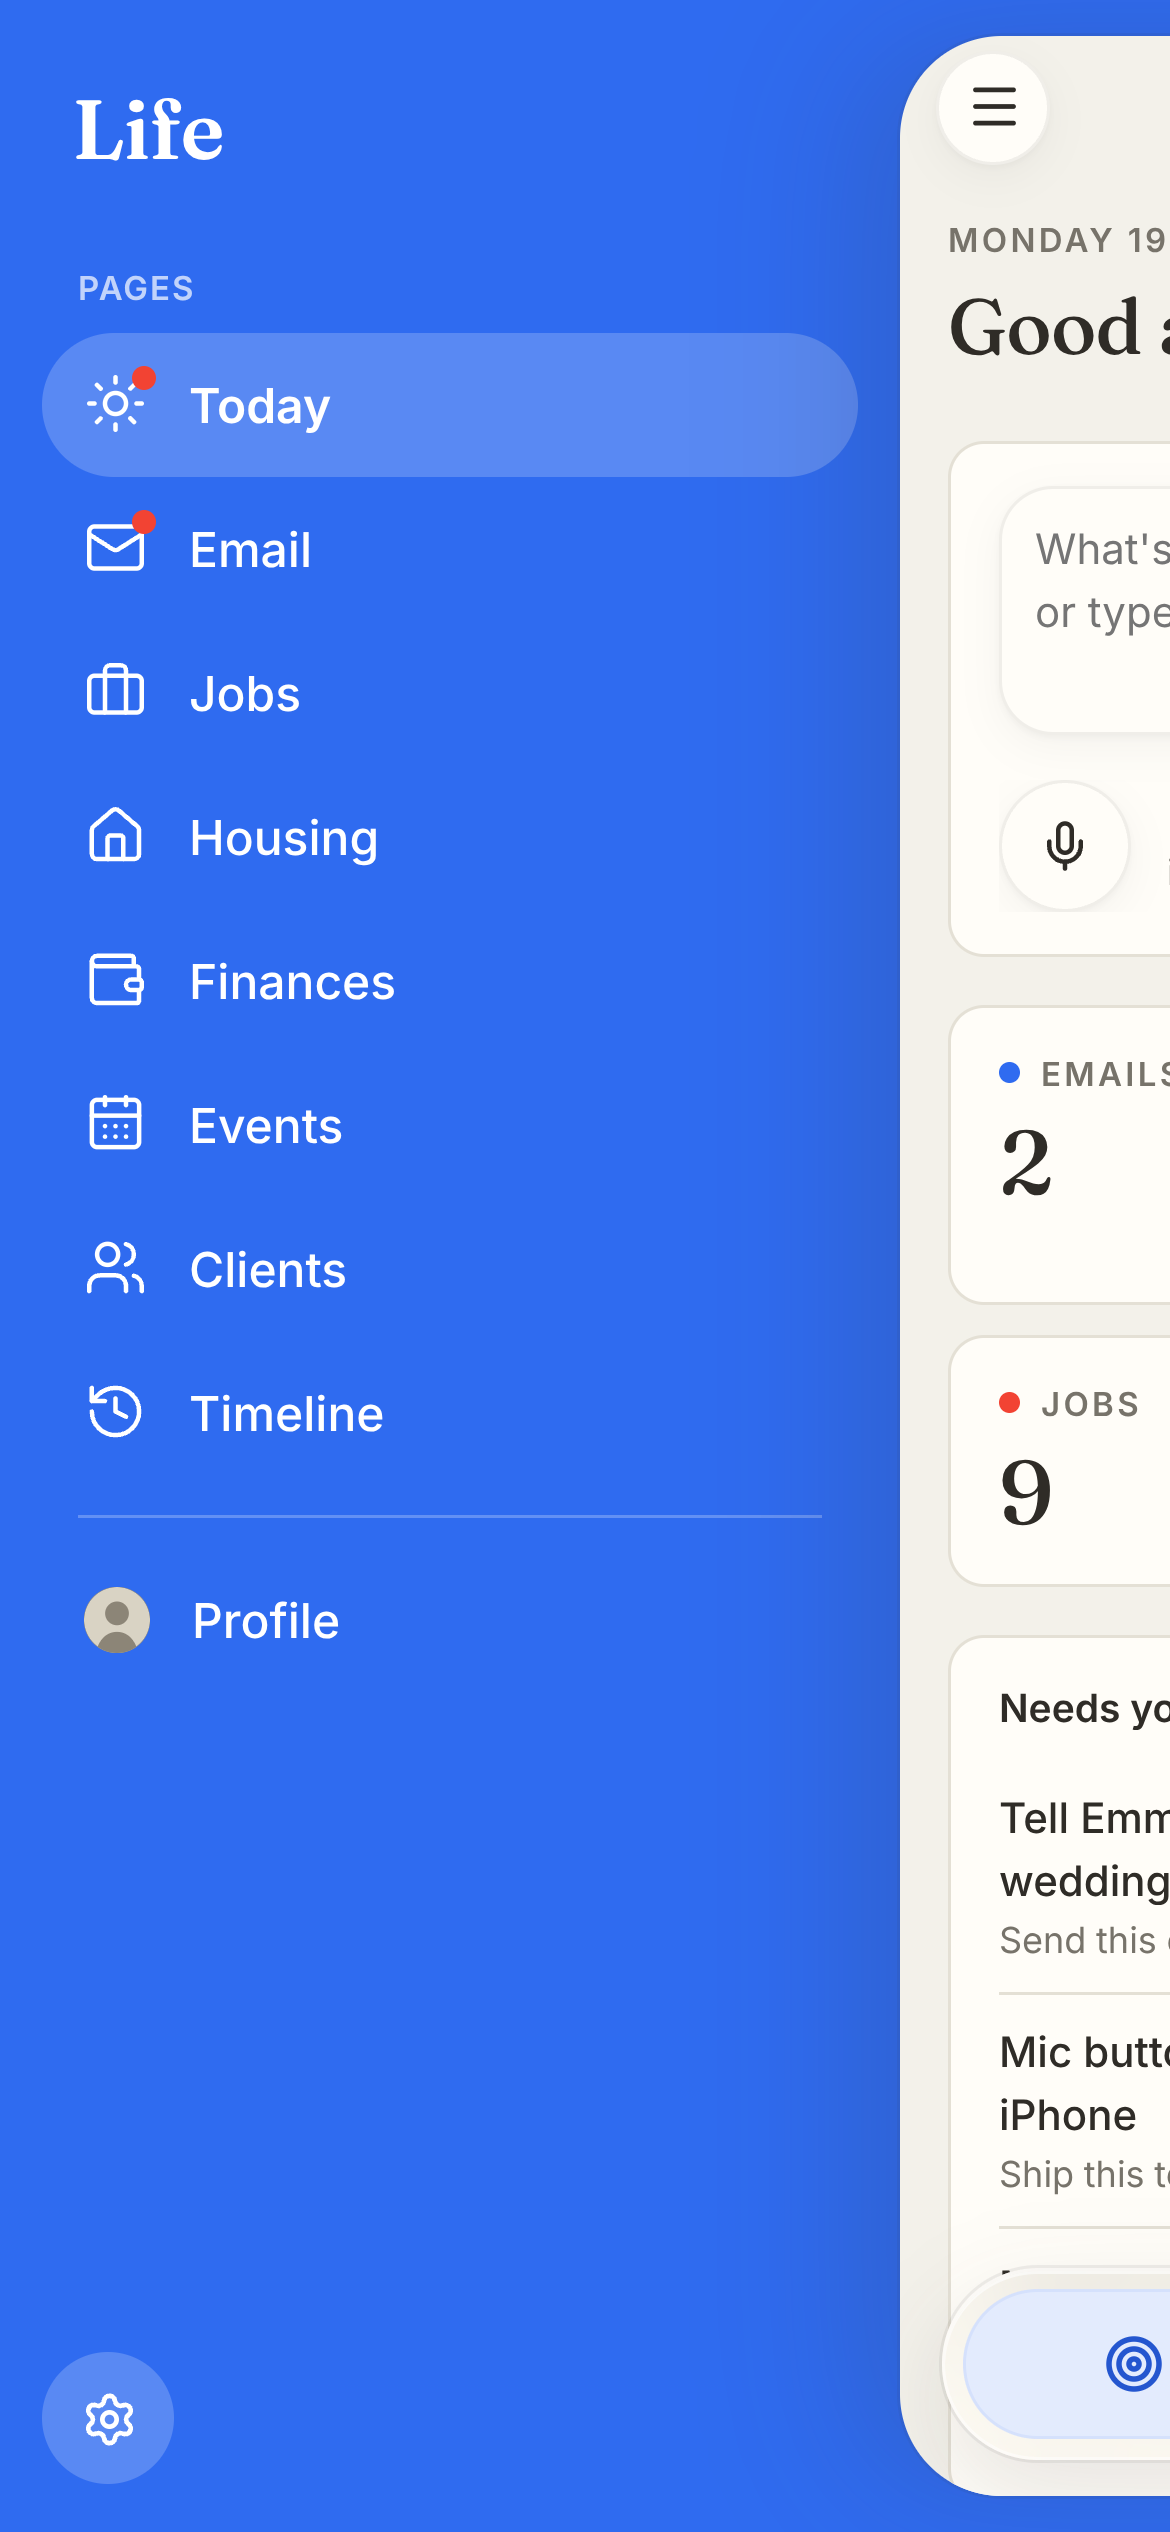
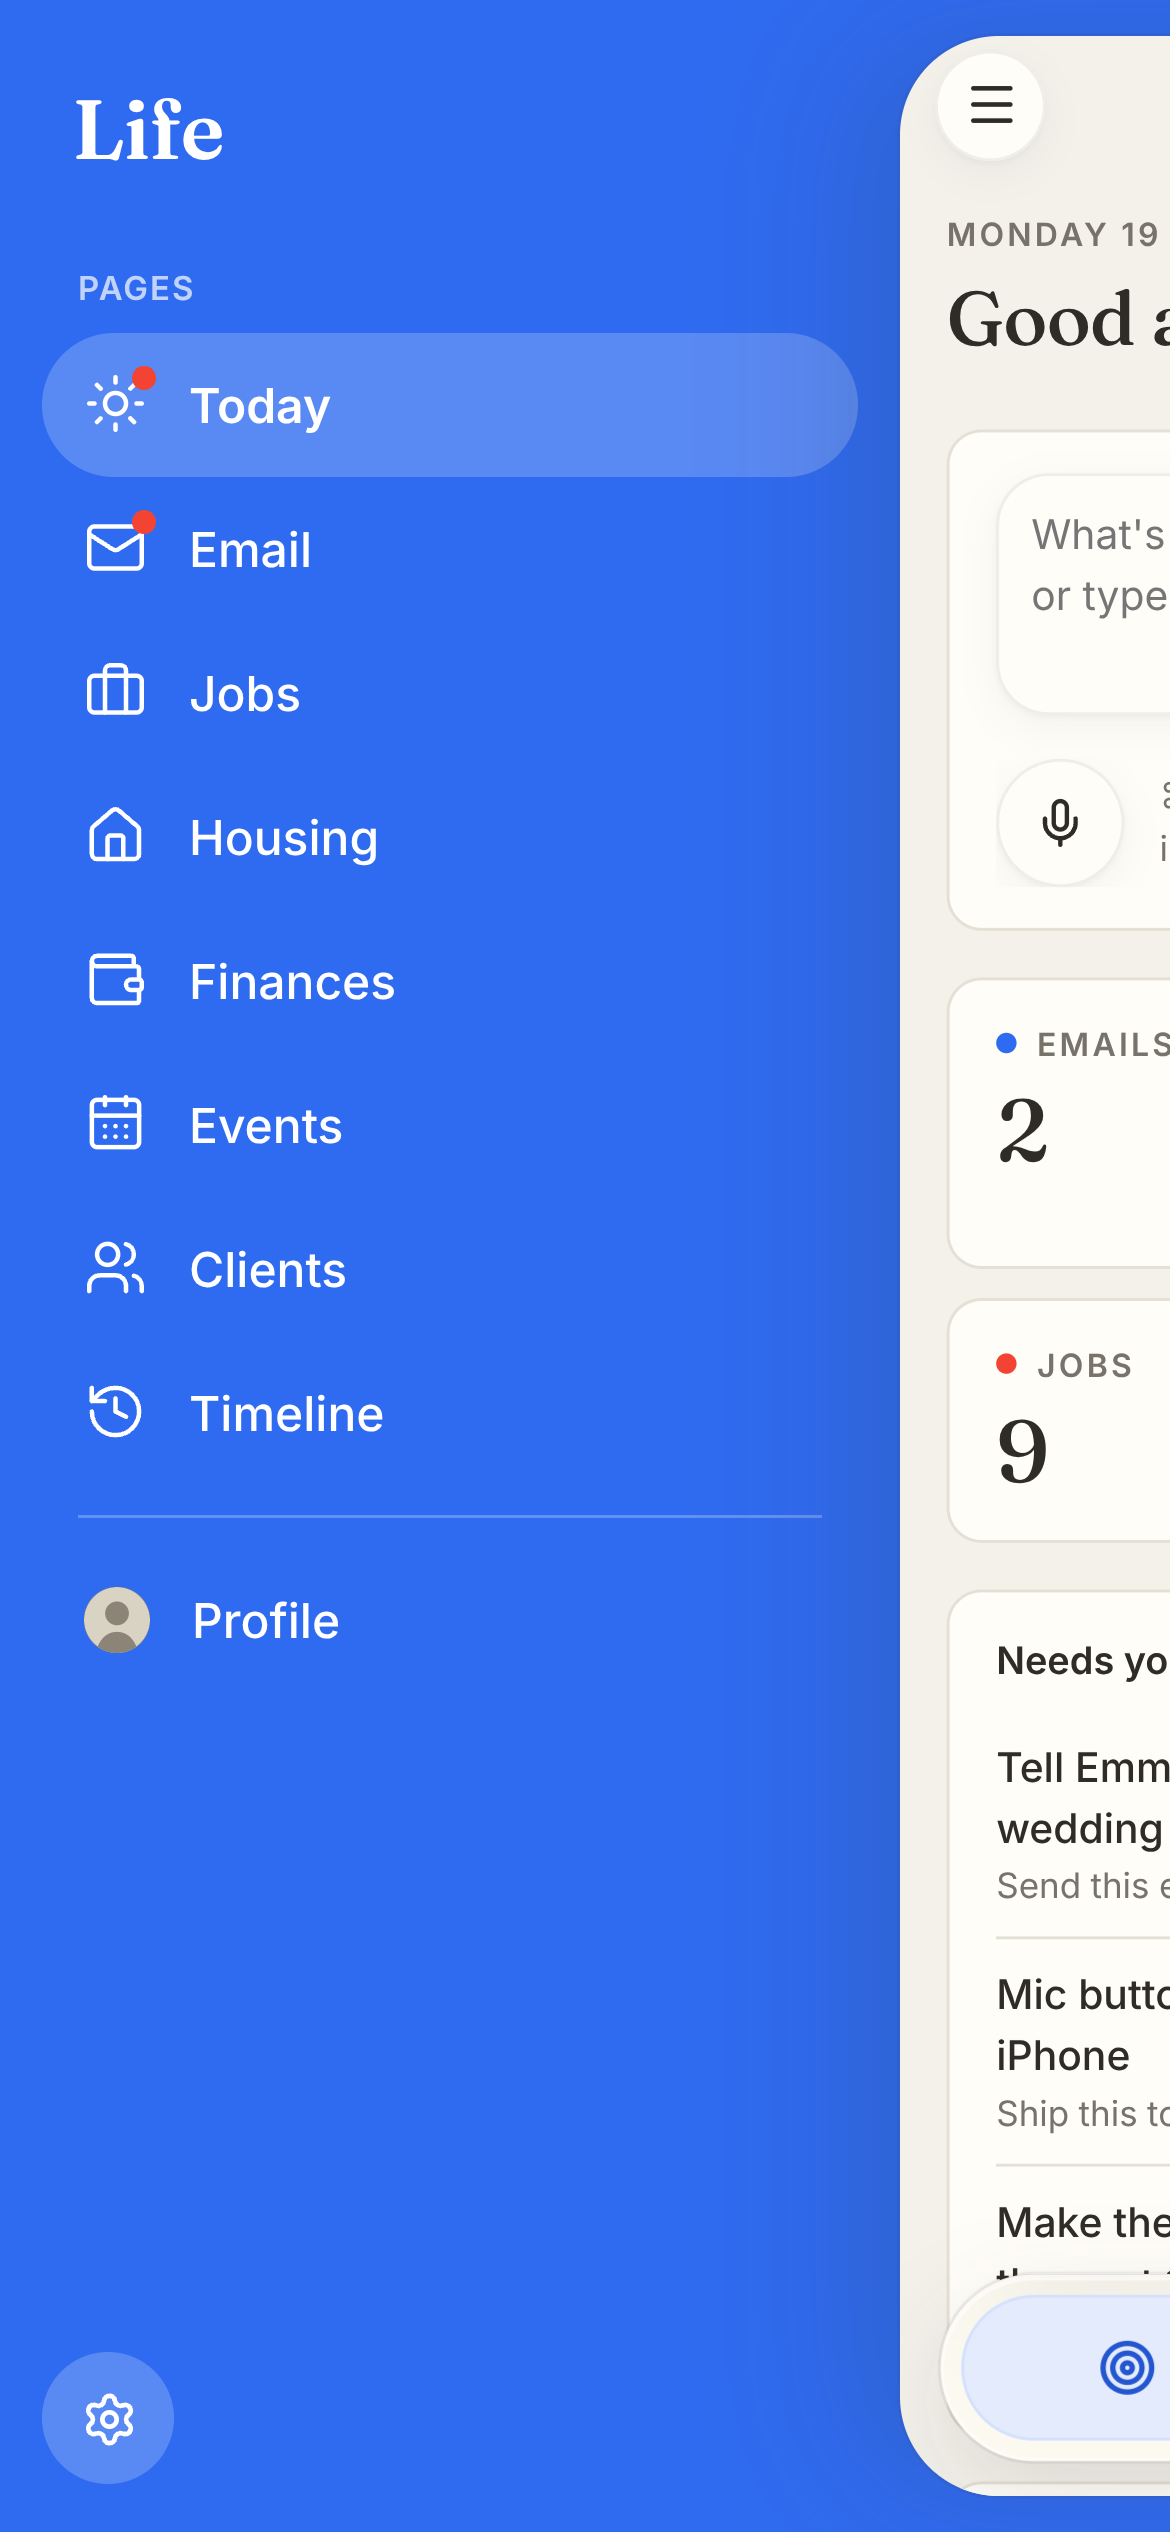
Phone menu: shorter, smoother slide (transform only)
Claude-Session: https://claude.ai/code/session_014Egirv3gvbTzrnHaoEqViP

diff --git a/src/styles.css b/src/styles.css
@@ -966,7 +966,7 @@ body { --menu-bg: var(--blue); --menu-fg: #fff; --menu-muted: rgba(255, 255, 255
 body[data-menu="gold"] { --menu-bg: var(--gold); --menu-fg: #2F2C27; --menu-muted: rgba(47, 44, 39, .6); --menu-line: rgba(47, 44, 39, .15); --menu-active: rgba(255, 255, 255, .45); --menu-active-fg: #2F2C27; }
 body[data-menu="green"] { --menu-bg: var(--green); }
 @media (max-width: 640px) {
-  :root { --tabs: 64px; --drawer: min(300px, 80vw); --push: cubic-bezier(.32, .72, 0, 1); }
+  :root { --tabs: 64px; --drawer: min(300px, 80vw); --push: cubic-bezier(.2, .8, .2, 1); }
   .m-top { display: grid; grid-template-columns: 40px 1fr 40px; gap: 10px; padding-left: 12px; padding-right: 12px; border-bottom-color: transparent; background: rgba(243, 241, 234, .8); }
   .m-top .m-title { justify-self: center; font-size: 18px; }
   .m-menu { width: 38px; height: 38px; }
@@ -1007,15 +1007,15 @@ body[data-menu="green"] { --menu-bg: var(--green); }
   .page > .page-head + .controls:has(> .controls-end:only-child):not(:has(.btn)) { margin-top: -46px; justify-content: flex-end; pointer-events: none; }
   .page > .page-head + .controls:has(> .controls-end:only-child) > * { pointer-events: auto; }
 
-  .shell { transition: transform 460ms var(--push), top 460ms var(--push), height 460ms var(--push), border-radius 460ms var(--push), box-shadow 460ms var(--push); }
+  /* transform only, so the slide never re-lays out the page */
+  .shell { transition: transform 300ms var(--push), border-radius 300ms var(--push), box-shadow 300ms var(--push); transform-origin: 0 50%; will-change: transform; }
   html:has(body.drawer-lock), body.drawer-lock { overflow: hidden; overscroll-behavior: none; }
   /* the card: fixed size from the real screen height, same gap above and below, so it sits centered */
   :root { --card-y: calc(env(safe-area-inset-top) + 12px); }
   body.drawer-lock .shell { position: fixed; left: 0; right: 0; top: 0; bottom: auto; height: var(--vh, 100dvh); min-height: 0; overflow: hidden; background: var(--bg); z-index: 2; touch-action: none; transform: translateX(0); }
   body.drawer-lock .main { margin-top: var(--sy); }
   body.drawer-open .shell {
-    top: var(--card-y); height: calc(var(--vh, 100dvh) - 2 * var(--card-y));
-    transform: translateX(var(--drawer)); border-radius: 34px;
+    transform: translateX(var(--drawer)) scale(var(--card-s, .92)); border-radius: 34px;
     box-shadow: 0 0 0 1px var(--ctl-line), -16px 0 50px rgba(47, 44, 39, .16);
   }
   body.drawer-open .m-top { background: transparent; -webkit-backdrop-filter: none; backdrop-filter: none; }
@@ -1024,9 +1024,9 @@ body[data-menu="green"] { --menu-bg: var(--green); }
     padding: calc(var(--card-y) + 10px) 14px calc(var(--card-y) + 4px);
     background: transparent; color: var(--menu-fg); overflow-y: auto;
     opacity: 0; transform: translateX(-24px); visibility: hidden;
-    transition: opacity 300ms ease, transform 420ms var(--push), visibility 0s 420ms;
+    transition: opacity 220ms ease, transform 300ms var(--push), visibility 0s 300ms;
   }
-  .m-drawer.show { opacity: 1; transform: none; visibility: visible; transition: opacity 300ms ease, transform 420ms var(--push); }
+  .m-drawer.show { opacity: 1; transform: none; visibility: visible; transition: opacity 220ms ease, transform 300ms var(--push); }
   .m-drawer-title { font-family: var(--display); font-size: 28px; font-weight: 600; letter-spacing: -.01em; color: var(--menu-fg); text-decoration: none; padding: 0 10px 18px; }
   .m-label { font-size: 11px; font-weight: 600; letter-spacing: .06em; text-transform: uppercase; color: var(--menu-muted); padding: 6px 12px 6px; }
   .m-drawer hr { border: 0; border-top: 1px solid var(--menu-line); margin: 10px 12px; }

diff --git a/src/components/MobileNav.jsx b/src/components/MobileNav.jsx
@@ -44,7 +44,15 @@ export default function MobileNav({ counts }) {
       const portrait = matchMedia('(orientation: portrait)').matches
       const { width, height } = window.screen
       const screenH = portrait ? Math.max(width, height) : Math.min(width, height)
-      root.style.setProperty('--vh', `${standalone ? screenH : window.innerHeight}px`)
+      const vh = standalone ? screenH : window.innerHeight
+      root.style.setProperty('--vh', `${vh}px`)
+      // the open card keeps the same gap above and below: (screen - 2 * gap) / screen
+      const probe = document.createElement('div')
+      probe.style.cssText = 'position:fixed;visibility:hidden;height:var(--card-y)'
+      document.body.appendChild(probe)
+      const gap = probe.getBoundingClientRect().height
+      probe.remove()
+      root.style.setProperty('--card-s', String(Math.max(0.8, (vh - 2 * gap) / vh)))
     }
     set()
     window.addEventListener('resize', set)
@@ -72,9 +80,7 @@ export default function MobileNav({ counts }) {
     if (!open) return
     const y = window.scrollY
     body.style.setProperty('--sy', `${-y}px`)
-    body.classList.add('drawer-lock')
-    void body.offsetWidth // start the card from full screen so it shrinks into place
-    body.classList.add('drawer-open')
+    body.classList.add('drawer-lock', 'drawer-open')
     // Keep swipes on the card from scrolling or stretching the page underneath
     const stop = (e) => { if (!e.target.closest?.('.m-drawer')) e.preventDefault() }
     document.addEventListener('touchmove', stop, { passive: false })
@@ -92,7 +98,7 @@ export default function MobileNav({ counts }) {
         if (body.classList.contains('drawer-open')) return
         body.classList.remove('drawer-lock')
         window.scrollTo(0, y)
-      }, 420)
+      }, 300)
     }
   }, [open])
 
